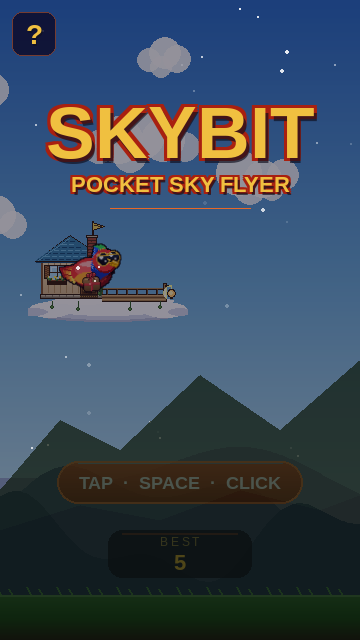
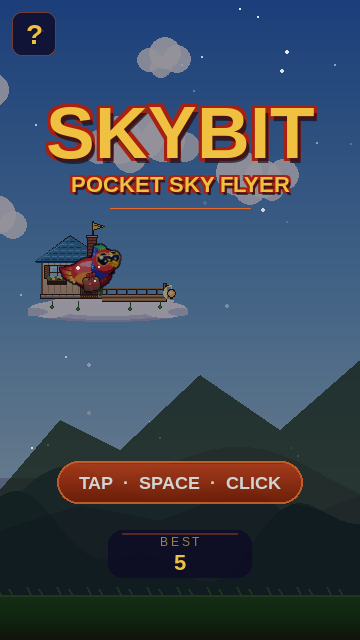
ui: stop the menu mountain silhouette from dimming the foreground UI
The alpha-180 mountain silhouette in draw_menu was being painted last,
on top of every UI element in its y-range — pill / BEST panel / help
button were all darkened by ~70% of the silhouette colour. The pill
in particular looked muddy at every phase of the pulse.

Move the silhouette to right after the star field, before any UI is
drawn, so it acts as the background layer it conceptually is. The
pill / BEST panel / help button now sit cleanly on top.

Changed region(s): [[0.1528, 0.7188, 0.8556, 0.9062]]

diff --git a/game/hud.py b/game/hud.py
@@ -540,6 +540,11 @@ class HUD:
 
         _draw_overlay_stars(surf, self._stars, self.title_t)
 
+        # Mountain silhouette belongs to the background, drawn before the
+        # foreground UI so the pill / BEST panel / help button sit cleanly
+        # on top of it instead of being darkened by the alpha-180 layer.
+        _draw_mountain_silhouette(surf, alpha=180)
+
         # Floating title — sits above the gameplay-opener post-house +
         # Pip composition (cottage top is at y≈208) so the text never
         # crosses the parrot.
@@ -577,8 +582,6 @@ class HUD:
 
         # Help button (top-left) — opens the power-ups explainer.
         self.help_btn.draw(surf)
-
-        _draw_mountain_silhouette(surf, alpha=180)
 
     def draw_play(self, surf, world, best: int, paused: bool = False):
         # ── Score: centered, styled dark pill backdrop
